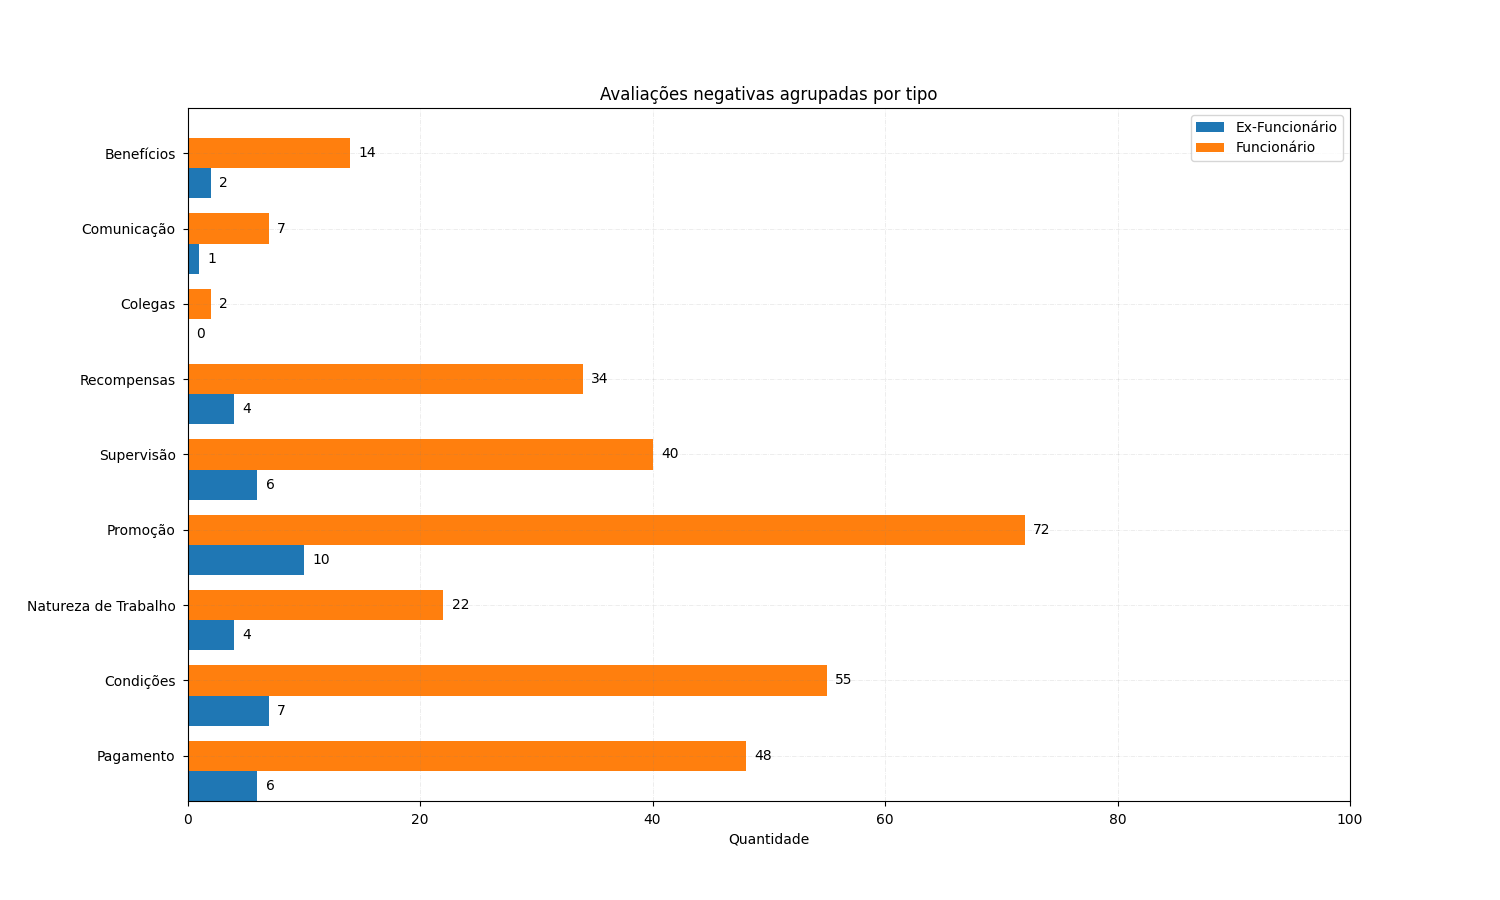
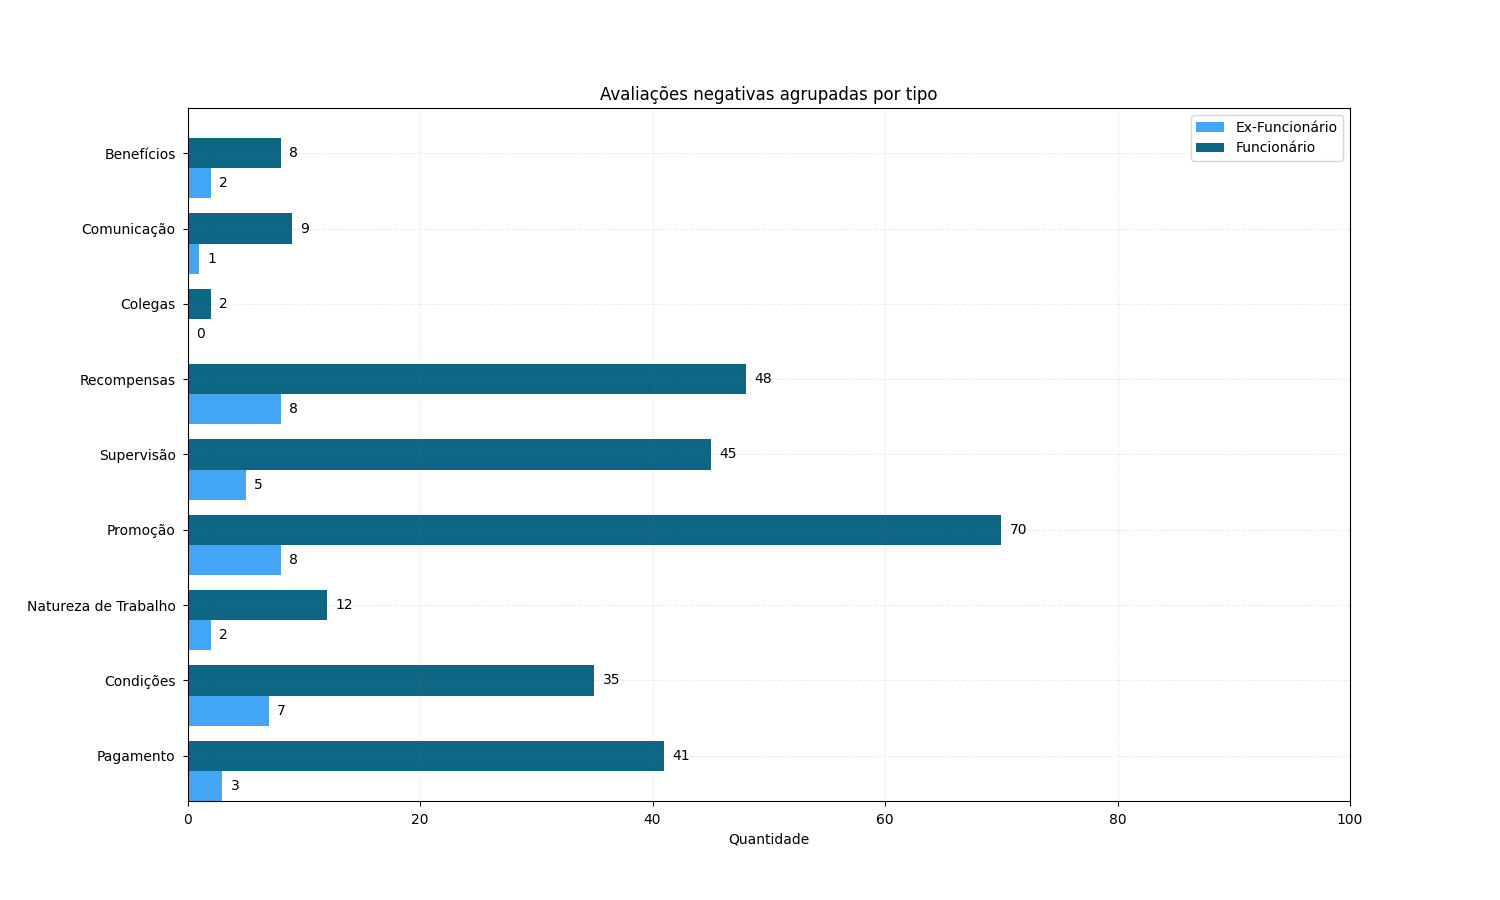
Melhorando visualizacoes

Changed region(s): [[0.1227, 0.4044, 0.7053, 0.9022], [0.1227, 0.1556, 0.2453, 0.3733], [0.7973, 0.1244, 0.828, 0.1867]]

diff --git a/src/evaluate_data.py b/src/evaluate_data.py
@@ -113,17 +113,19 @@ for i in range(len(test_reviews)-1):
         generate_dataset.generate_quantitative_dataset(1, test_aspect_categories[i], former_emp[i])
 
 
-
+lightBlue = '#42A5F5'
+blue = '#0d6683'
+explode = (0, 0.1)
 # Build pie charts
 plt.figure(0)
 labels = "Positivas", "Negativas"
 sizes = [positives, negatives]
-plt.pie(sizes, labels = labels, autopct='%1.1f%%')
+plt.pie(sizes, labels = labels, explode=explode, autopct='%1.1f%%', colors=[lightBlue, blue])
 plt.savefig("PositiveAndNegativeProportion.png")
 plt.figure(1)
 labelsFormer = "Ex-Funcionário", "Funcionário"
 sizesFormer = [isFormerForNegatives["isFormer"], isFormerForNegatives["notFormer"]]
-plt.pie(sizesFormer, labels = labelsFormer, autopct='%1.0f%%')
+plt.pie(sizesFormer, labels = labelsFormer, explode=explode, autopct='%1.1f%%', colors=[lightBlue, blue])
 plt.savefig("FormerProportionOnNegativeReviews.png")
 
 # Build bar Chart
@@ -137,8 +139,8 @@ df = pd.DataFrame(dict(graph=labels, n=formerValues, m=notFormerValues))
 ind = np.arange(len(df))
 width = 0.4
 fig, ax = plt.subplots(figsize =(15, 9))
-rects1 = ax.barh(ind, df.n, width, label='Ex-Funcionário')
-rects2 = ax.barh(ind + width, df.m, width, label='Funcionário')
+rects1 = ax.barh(ind, df.n, width, label='Ex-Funcionário', color=lightBlue)
+rects2 = ax.barh(ind + width, df.m, width, label='Funcionário', color=blue)
 ax.set(yticks=ind + width, yticklabels=df.graph, ylim=[2*width - 1, len(df)])
 ax.legend()
 ax.xaxis.set_tick_params(pad = 5)
